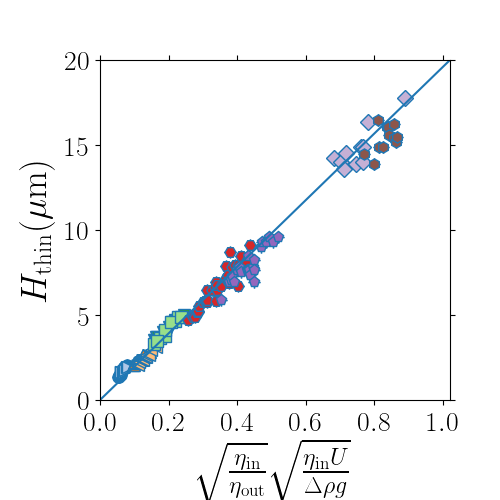
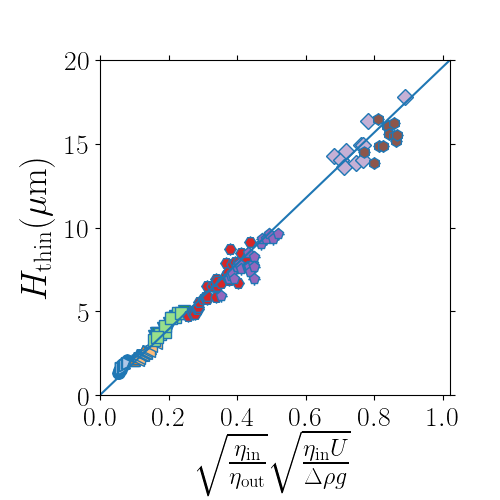
collpase x label

diff --git a/collapse2.py b/collapse2.py
@@ -68,7 +68,7 @@ drg = zip(dataset,rhoset,gammaset,viscosityset)
 #ax,ax2,ax3,ax4 = axes.flat[:]
 fig,ax = plt.subplots(figsize=(5,5))
 
-plt.subplots_adjust(bottom=0.2,left=0.2)
+plt.subplots_adjust(bottom=0.21,left=0.2)
 #plt.axis('equal')
 cmap = plt.get_cmap('tab20')
 #plt.xlim(20,1000)
@@ -185,7 +185,7 @@ print 'f = %.4f+/-%.4f' %(f,sigmaf)
 #ax3.axhspan(bmean-berrfinal,bmean+berrfinal,alpha =0.5)
 ax.plot(np.arange(0,2,0.1),19.6*np.arange(0,2,0.1))
 
-ax.xaxis.set_label_coords(0.5,-0.12)
+ax.xaxis.set_label_coords(0.5,-0.11)
 ax.set_xlabel(r'$\sqrt{\frac{\eta_{\text{in}}}{\eta_{\text{out}}}}\sqrt{\frac{\eta_{\text{in}}U}{\Delta \rho g}}$',fontsize=25,labelpad=0)
 ax.yaxis.set_label_coords(-0.12,0.5)
 ax.set_ylabel(r'$H_{\text{thin}}(\mu \text{m})$',fontsize=26,labelpad=0)
